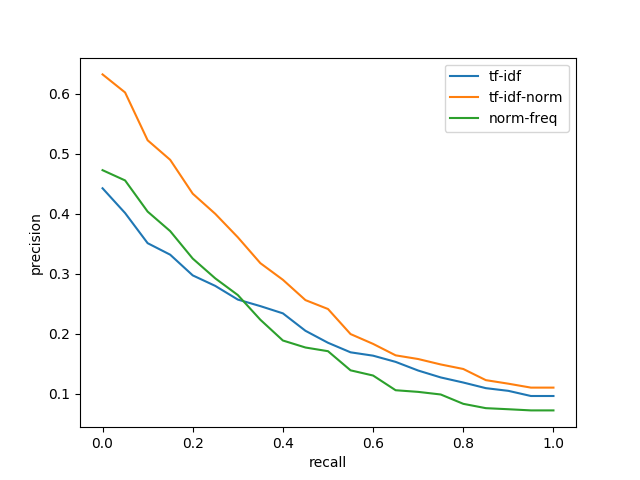
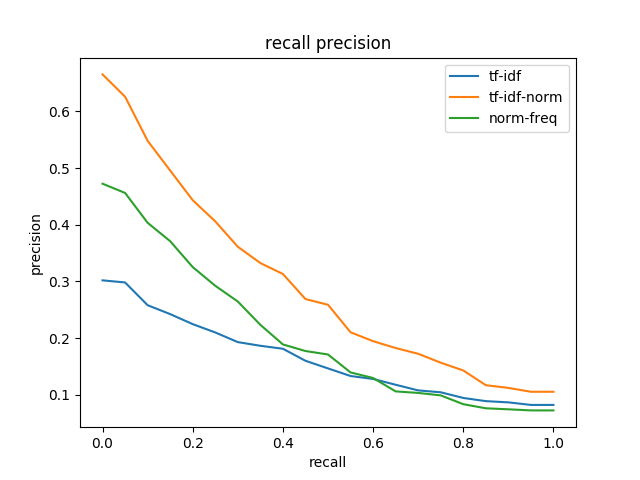
add e measure and f measure

diff --git a/performance_test.py b/performance_test.py
@@ -89,20 +89,39 @@ class PerformanceQueries:
                             element.split('\n')[1:])
 
 
-with open(docRetreiveFile, 'rb') as f:
-    retreive_dict = pickle.load(f)
-    print("loaded retreive from " + docRetreiveFile)
+def n_points_interpolate(qrecalls, qprecisions, n):
+    # will hold result
+    qprecisions_res = [qprecisions[0]]
+    qrecalls_res = [qrecalls[0]]
 
-    inv_index = InvertedIndex([])
-    inv_index.load(indexFile)
-    print("loaded inverted index from " + indexFile)
+    # the wanted interpolation x values
+    thresholds = [(i + 1) / n for i in range(n)]
+    thresholdIter = 0
+    for i, recall in enumerate(qrecalls):
+        if thresholdIter >= len(thresholds):
+            break
 
-    qrels = QRels('./qrels.text')
-    print("loaded relations from ./qrels.text")
+        # iterate until we reach the required threshold
+        if recall < thresholds[thresholdIter]:
+            continue
+        # once it is reached fill thresholds until the recall value is not overshot
+        while thresholdIter < len(thresholds) \
+            and not thresholds[thresholdIter] > qrecalls[i]:
 
-    queries = PerformanceQueries('./query.text')
-    print("loaded queries from ./query.text")
+            # can handle affine interpolation
+            pt = qprecisions[i - 1] - (qprecisions[i - 1] - qprecisions[i]) * (
+                qrecalls[i - 1] - thresholds[thresholdIter]) / (
+                    qrecalls[i - 1] - qrecalls[i]
+                ) if qrecalls[i - 1] - qrecalls[i] > 0 else qprecisions[i - 1]
+            qprecisions_res.append(pt)
+            qrecalls_res.append(thresholds[thresholdIter])
 
+            thresholdIter += 1
+
+    return qrecalls_res, qprecisions_res
+
+
+def build_precision_recall(inv_index, queries, qrels, N):
     # plot a curve for each model
     for model in models:
         N = 20
@@ -142,6 +161,7 @@ with open(docRetreiveFile, 'rb') as f:
                         if result in qrels.queries_results[qid]
                     ]
 
+                    # recall and precision definitions
                     recall = len(right_results) / len(
                         qrels.queries_results[qid])
                     precision = len(right_results) / len(results)
@@ -149,7 +169,7 @@ with open(docRetreiveFile, 'rb') as f:
                     recalls[qid].append(recall)
                     precisions[qid].append(precision)
 
-        # keep maximum precision for lower rank
+        # keep maximum precision for lower rank (interpolation)
         for qid, qprecisions in precisions.items():
             maximum = float("-inf")
             qprecisions_interpolated = []
@@ -160,63 +180,110 @@ with open(docRetreiveFile, 'rb') as f:
             qprecisions_interpolated.reverse()
             precisions[qid] = qprecisions_interpolated
 
-        # n points interpolate
+        # n points interpolation
         for qid in precisions.keys():
 
-            def n_points_interpolate(qrecalls, qprecisions, n):
-                qprecisions = [max(qprecisions)] + qprecisions + [
-                    len(qprecisions) / len(qrels.queries_results[qid])
-                ]
-                qrecalls = [0] + qrecalls + [1]
-                qprecisions_res = [qprecisions[0]]
-                qrecalls_res = [qrecalls[0]]
-                thresholds = [(i + 1) / n for i in range(n)]
-                thresholdIter = 0
-                for i, recall in enumerate(qrecalls):
-                    if thresholdIter >= len(thresholds):
-                        break
+            qrecalls = recalls[qid]
+            qprecisions = precisions[qid]
 
-                    # iterate until we reach the required threshold
-                    if recall < thresholds[thresholdIter]:
-                        continue
-                    # once it is reached fill thresholds until the recall value is not overshot
-                    while thresholdIter < len(thresholds) \
-                        and not thresholds[thresholdIter] > qrecalls[i]:               
-
-                        # can handle affine interpolation
-                        pt = qprecisions[i - 1] - (
-                            qprecisions[i - 1] - qprecisions[i]
-                        ) * (qrecalls[i - 1] - thresholds[thresholdIter]) / (
-                            qrecalls[i - 1] - qrecalls[i]
-                        ) if qrecalls[i - 1] - qrecalls[i] > 0 else qprecisions[
-                            i - 1]
-                        qprecisions_res.append(pt)
-                        qrecalls_res.append(thresholds[thresholdIter])
-                        
-                        thresholdIter += 1
-
-
-
-                return qrecalls_res, qprecisions_res
+            qprecisions = [max(qprecisions)] + qprecisions + [
+                len(qprecisions) / len(qrels.queries_results[qid])
+            ]
+            qrecalls = [0] + qrecalls + [1]
 
             qrecalls_res, qprecisions_res = n_points_interpolate(
-                recalls[qid], precisions[qid], N)
+                qrecalls, qprecisions, N)
+
             recalls_interpolated[qid] = qrecalls_res
             precisions_interpolated[qid] = qprecisions_res
 
         # average interpolated precisions
         avg_precisions_interpolated = []
-        avg_recalls_interpolated = [i/(N) for i in range(N + 1)]
-        for i in range(N+1):
-            avg_precisions_interpolated.append(sum([precs[i] for qid, precs in precisions_interpolated.items()]) / len(precisions_interpolated))
+        avg_recalls_interpolated = [i / (N) for i in range(N + 1)]
+        for i in range(N + 1):
+            avg_precisions_interpolated.append(
+                sum([
+                    precs[i] for qid, precs in precisions_interpolated.items()
+                ]) / len(precisions_interpolated))
 
-        print(avg_recalls_interpolated)
-        print(avg_precisions_interpolated)
+        yield model, avg_recalls_interpolated, avg_precisions_interpolated
 
-        plt.plot(avg_recalls_interpolated, avg_precisions_interpolated, label=model.method)
 
+def build_f_measure(recalls, precisions, beta):
+    f_measures = []
+    for i in range(len(recalls)):
+        p = precisions[i]
+        r = recalls[i]
+        f_measures.append((1 + beta**2) * (p * r) / ((beta**2) * (p + r)))
+    return recalls, f_measures
+
+
+def build_e_measure(recalls, precisions, beta):
+    recalls, f_measures = build_f_measure(recalls, precisions, beta)
+    e_measures = list(map(lambda x: 1 - x, f_measures))
+    return recalls, e_measures
+
+
+with open(docRetreiveFile, 'rb') as f:
+    retreive_dict = pickle.load(f)
+    print("loaded retreive from " + docRetreiveFile)
+
+    inv_index = InvertedIndex([])
+    inv_index.load(indexFile)
+    print("loaded inverted index from " + indexFile)
+
+    qrels = QRels('./qrels.text')
+    print("loaded relations from ./qrels.text")
+
+    queries = PerformanceQueries('./query.text')
+    print("loaded queries from ./query.text")
+
+    recall_precision_curves = [(model, recall, precision) for (
+        model, recall,
+        precision) in build_precision_recall(inv_index, queries, qrels, 20)]
+
+    plt.figure(0)
+    for model, avg_recalls_interpolated, avg_precisions_interpolated in recall_precision_curves:
+        plt.plot(
+            avg_recalls_interpolated,
+            avg_precisions_interpolated,
+            label=model.method)
+    plt.title("recall precision")
     plt.legend()
     plt.xlabel('recall')
     plt.ylabel('precision')
     plt.savefig('./recallPrecision.png')
-    print('Recall precision curves drawn in ./recallPrecision.png')
+
+    print('Recall precision curves drawn in ./recall-precision.png')
+
+    plt.figure(1)
+    for model, avg_recalls_interpolated, avg_precisions_interpolated in recall_precision_curves:
+        avg_recalls_interpolated, avg_f_measure_interpolated = build_f_measure(
+            avg_recalls_interpolated, avg_precisions_interpolated, 1)
+        plt.plot(
+            avg_recalls_interpolated,
+            avg_f_measure_interpolated,
+            label=model.method)
+    plt.title("recall f-measure")
+    plt.legend()
+    plt.xlabel('recall')
+    plt.ylabel('f-measure')
+    plt.savefig('./f-measure.png')
+
+    print('F measure curve drawn in ./f-measure.png')
+
+    plt.figure(2)
+    for model, avg_recalls_interpolated, avg_precisions_interpolated in recall_precision_curves:
+        avg_recalls_interpolated, avg_e_measure_interpolated = build_e_measure(
+            avg_recalls_interpolated, avg_precisions_interpolated, 1)
+        plt.plot(
+            avg_recalls_interpolated,
+            avg_e_measure_interpolated,
+            label=model.method)
+    plt.title("recall e-measure")
+    plt.legend()
+    plt.xlabel('recall')
+    plt.ylabel('e-measure')
+    plt.savefig('./e-measure.png')
+
+    print('E measure curve drawn in ./e-measure.png')
